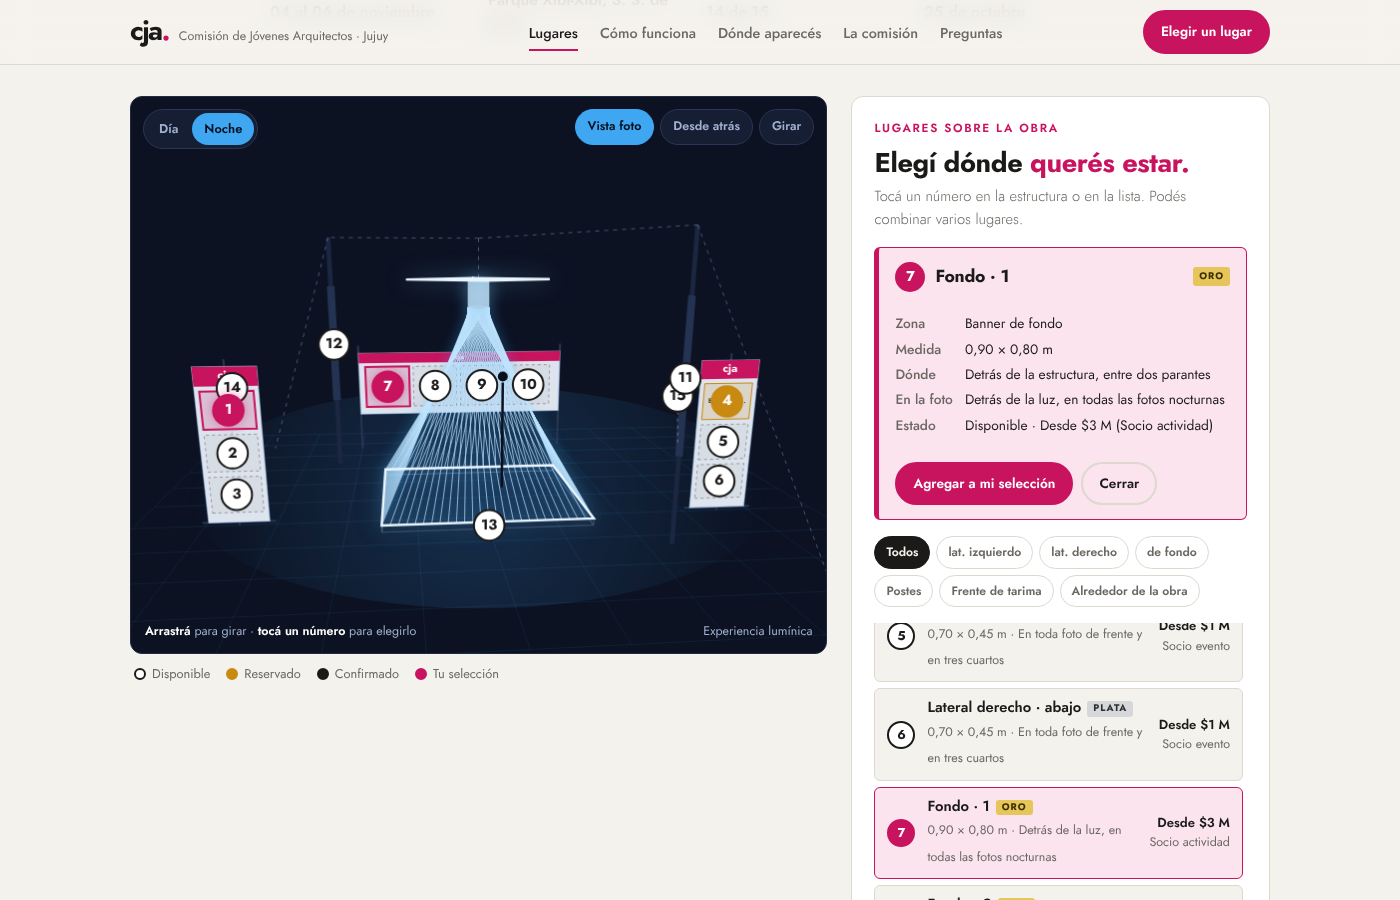
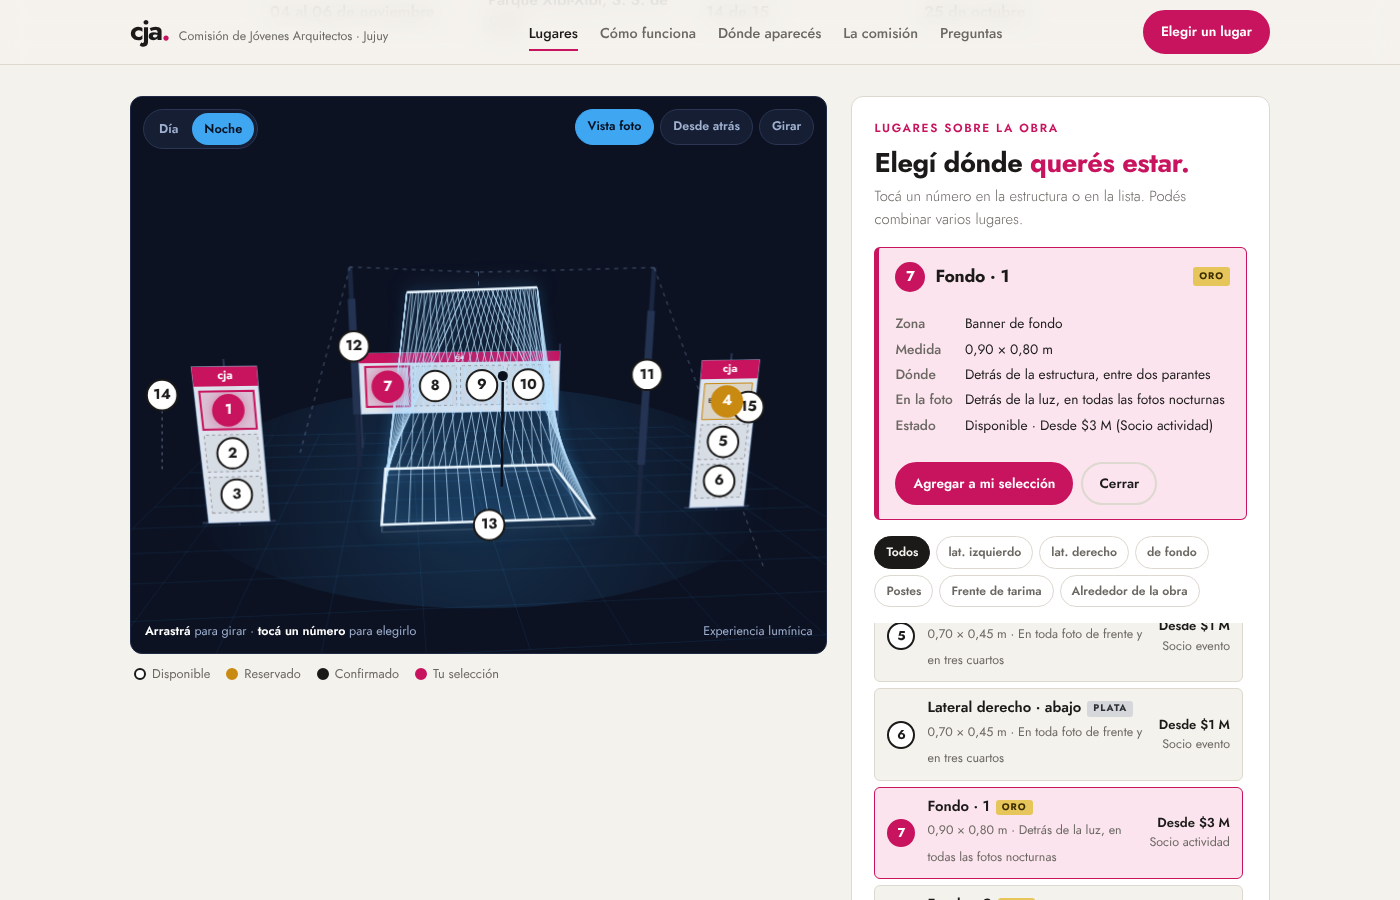
fix(sitio-cja): geometría tomada del archivo SketchUp publicidad.skp
Superficie reglada: hilos del perímetro de la tarima 3×3 a una viga
diagonal de 3,00 m a 3,205 m; postes de 3,52 m a 2,80 m del centro en la
diagonal opuesta, cable entre postes, tensor colgante y riendas a tierra.

Claude-Session: https://claude.ai/code/session_01AcELABFY21tac7ncyxPKsw

diff --git a/sitio-cja/app.js b/sitio-cja/app.js
@@ -18,17 +18,23 @@
   $('cWeb').textContent=D.contacto.web; $('cWeb').href='https://'+D.contacto.web;
 
   /* ---------- Geometría (metros) ---------- */
-  // Según el modelo SketchUp: tarima 3×3, hilos desde el perímetro que convergen con giro en un cuello
-  // angosto bajo el marco; marco superior 1,50×1,50 con diagonales en X, colgado de un cable entre los dos postes.
-  const B=1.5, T=0.75, Z0=0.10, POST=4.0, PD=2.35, N=26;
-  const NECK_R=0.16, NECK_Z=2.95, H=3.35, HANG_Z=3.92, TW=0.36;
+  // Geometría leída de publicidad.skp (SketchUp 2019): tarima 3×3 m, hilos desde el perímetro a una viga
+  // diagonal de 3,00 m a 3,205 m de altura; postes de 3,52 m en la diagonal opuesta, a 2,80 m del centro,
+  // con cable entre postes, tensor colgante y riendas a tierra.
+  const B=1.5, Z0=0.11, POST=3.52, PD=1.98, RIDGE=1.5, H=3.205, HANG_Z=3.45, STEP=16;
+  const ridgePt=t=>{t=Math.max(-RIDGE,Math.min(RIDGE,t));return [t/Math.SQRT2,t/Math.SQRT2,H];};
+  const strings=[];
+  for(let i=0;i<=STEP;i++){const f=i/STEP;
+    strings.push([[-B+3*f,-B,Z0],ridgePt(1.8*f-1.5)]);   // frente
+    strings.push([[ B,-B+3*f,Z0],ridgePt(1.8*f+0.3)]);   // derecha
+    strings.push([[-B+3*f, B,Z0],ridgePt(1.8*f-0.3)]);   // fondo
+    strings.push([[-B,-B+3*f,Z0],ridgePt(1.8*f-2.1)]);   // izquierda
+  }
   function perim(u,s,rot,z){u=((u%1)+1)%1;const k=u*4,side=Math.floor(k),f=k-side;let x,y;
     if(side===0){x=-s+2*s*f;y=-s}else if(side===1){x=s;y=-s+2*s*f}else if(side===2){x=s-2*s*f;y=s}else{x=-s;y=s-2*s*f}
     const c=Math.cos(rot),sn=Math.sin(rot);return [x*c-y*sn,x*sn+y*c,z];}
-  const neckPt=u=>[NECK_R*Math.cos(2*Math.PI*u),NECK_R*Math.sin(2*Math.PI*u),NECK_Z];
-  const strings=[];for(let side=0;side<4;side++)for(let i=0;i<N;i++){const u=(side+i/N)/4;strings.push([perim(u,B,0,Z0),neckPt(u+TW)]);}
   const sq=(s,rot,z)=>[0,.25,.5,.75].map(u=>perim(u,s,rot,z));
-  const base=sq(B,0,Z0),baseLow=sq(B,0,0),top=sq(T,Math.PI/4,H);
+  const base=sq(B,0,Z0),baseLow=sq(B,0,0);
   const posts=[[PD,-PD],[-PD,PD]];
   const quadXZ=(x0,x1,y,z0,z1)=>[[x0,y,z0],[x1,y,z0],[x1,y,z1],[x0,y,z1]];
   const lerp3=(a,b,t)=>[a[0]+(b[0]-a[0])*t,a[1]+(b[1]-a[1])*t,a[2]+(b[2]-a[2])*t];
@@ -52,8 +58,8 @@
   // franja frontal de tarima
   SPOT[13]={q:[[-B,-B,0],[B,-B,0],[B,-B,Z0],[-B,-B,Z0]],anchor:[0,-B,Z0/2],kind:'strip'};
   // extras: anclados a un costado (láminas y remeras no están sobre la obra)
-  SPOT[14]={q:null,anchor:[-4.4,3.3,1.3],kind:'float'};
-  SPOT[15]={q:null,anchor:[4.4,3.3,1.0],kind:'float'};
+  SPOT[14]={q:null,anchor:[-5.3,2.0,1.4],kind:'float'};
+  SPOT[15]={q:null,anchor:[5.3,2.0,1.0],kind:'float'};
 
   /* ---------- Canvas ---------- */
   const cv=$('cv'),ctx=cv.getContext('2d'),stage=$('stage');
@@ -82,27 +88,21 @@
     const S=SPOT[13].q.map(proj);ctx.beginPath();path2(S);ctx.fillStyle=byN.get(13).sponsor||sel.has(13)||focus===13?spotFill(13):'rgba(200,19,94,.0)';ctx.fill();ctx.lineWidth=1;ctx.strokeStyle=spotStroke(13);ctx.stroke();
     // postes (+ vinilos 11 y 12)
     posts.forEach(([x,y],i)=>{const num=i===0?11:12;ctx.beginPath();line([x,y,0],[x,y,POST]);ctx.lineWidth=Math.max(3,W*0.007);ctx.strokeStyle=night?'#1b2740':'#2b2a28';ctx.stroke();
-      ctx.beginPath();line([x,y,1.2],[x,y,3.2]);ctx.lineWidth=Math.max(5,W*0.011);ctx.strokeStyle=sel.has(num)||focus===num?'#C8135E':(byN.get(num).estado==='reservado'?'#C98A12':(byN.get(num).estado==='confirmado'?'#4a4642':(night?'#243352':'#d9d4cb')));ctx.stroke();});
+      ctx.beginPath();line([x,y,1.0],[x,y,3.0]);ctx.lineWidth=Math.max(5,W*0.011);ctx.strokeStyle=sel.has(num)||focus===num?'#C8135E':(byN.get(num).estado==='reservado'?'#C98A12':(byN.get(num).estado==='confirmado'?'#4a4642':(night?'#243352':'#d9d4cb')));ctx.stroke();});
     // cable entre postes (pasa sobre el centro), tensor colgante y riendas a tierra
     ctx.beginPath();ctx.lineWidth=1;ctx.setLineDash([4,5]);
     line([PD,-PD,POST],[0,0,HANG_Z]);line([0,0,HANG_Z],[-PD,PD,POST]);line([0,0,HANG_Z],[0,0,H]);
-    line([PD,-PD,POST],[PD*1.6,-PD*1.6,0]);line([-PD,PD,POST],[-PD*1.6,PD*1.6,0]);
+    line([PD,-PD,POST],[PD*1.62,-PD*1.62,0]);line([-PD,PD,POST],[-PD*1.62,PD*1.62,0]);
     ctx.strokeStyle=night?'rgba(180,215,255,.35)':'rgba(27,26,25,.45)';ctx.stroke();ctx.setLineDash([]);
-    // hilos: del perímetro de la tarima al cuello, con giro
+    // hilos: del perímetro de la tarima a la viga diagonal (superficie reglada)
     ctx.beginPath();strings.forEach(([a,b])=>line(a,b));
     if(night){ctx.shadowColor=`rgba(63,166,242,${0.9*pulse})`;ctx.shadowBlur=14;ctx.strokeStyle=`rgba(190,228,255,${0.55+0.3*pulse})`;ctx.lineWidth=1;}
-    else{ctx.strokeStyle='rgba(27,26,25,.42)';ctx.lineWidth=0.8;}
+    else{ctx.strokeStyle='rgba(27,26,25,.45)';ctx.lineWidth=0.8;}
     ctx.stroke();ctx.shadowBlur=0;
-    // cuello: haz de hilos que sube hasta el marco
-    const nA=proj([0,0,NECK_Z]),nB=proj([0,0,H]);const c0=Math.cos(theta),s0=Math.sin(theta);
-    const wA=Math.hypot(...((p,q)=>[p[0]-q[0],p[1]-q[1]])(proj([NECK_R*c0,-NECK_R*s0,NECK_Z]),proj([-NECK_R*c0,NECK_R*s0,NECK_Z])));
-    ctx.beginPath();ctx.moveTo(nA[0],nA[1]);ctx.lineTo(nB[0],nB[1]);ctx.lineWidth=Math.max(3,wA);ctx.lineCap='butt';
-    if(night){ctx.shadowColor=`rgba(120,200,255,${pulse})`;ctx.shadowBlur=18;ctx.strokeStyle=`rgba(200,232,255,${0.7+0.2*pulse})`;}else{ctx.strokeStyle='rgba(27,26,25,.75)';}
-    ctx.stroke();ctx.shadowBlur=0;
-    // tarima iluminada y marco superior con diagonales en X
-    ctx.beginPath();poly(base);poly(top);line(top[0],top[2]);line(top[1],top[3]);
-    if(night){ctx.shadowColor=`rgba(120,200,255,${pulse})`;ctx.shadowBlur=22;ctx.strokeStyle='#eaf6ff';ctx.lineWidth=2.4;}
-    else{ctx.strokeStyle='#1B1A19';ctx.lineWidth=2.2;}
+    // tarima iluminada y viga superior
+    ctx.beginPath();poly(base);line(ridgePt(-RIDGE),ridgePt(RIDGE));
+    if(night){ctx.shadowColor=`rgba(120,200,255,${pulse})`;ctx.shadowBlur=22;ctx.strokeStyle='#eaf6ff';ctx.lineWidth=2.6;}
+    else{ctx.strokeStyle='#1B1A19';ctx.lineWidth=2.6;}
     ctx.stroke();ctx.shadowBlur=0;
     const p0=proj([0.4,0.2,Z0]),p1=proj([0.4,0.2,Z0+1.7]);
     ctx.beginPath();ctx.moveTo(p0[0],p0[1]);ctx.lineTo(p1[0],p1[1]);ctx.lineWidth=2.5;ctx.strokeStyle=night?'#0a0f1c':'#C8135E';ctx.stroke();

diff --git a/sitio-cja/README.md b/sitio-cja/README.md
@@ -48,4 +48,4 @@ Para el QR de la placa física usá la URL final del deploy.
 ## Pendientes
 
 - `og.png`: render de la estructura para la vista previa en WhatsApp e Instagram (1200 × 630).
-- Modelo GLB real cuando exista: el canvas actual es un dibujo procedimental a partir de la planta y la vista del proyecto.
+- La geometría del visor se tomó del archivo `publicidad.skp` (tarima 3×3, viga diagonal a 3,205 m, postes de 3,52 m). Si el modelo cambia, los parámetros están al inicio de `app.js`.
